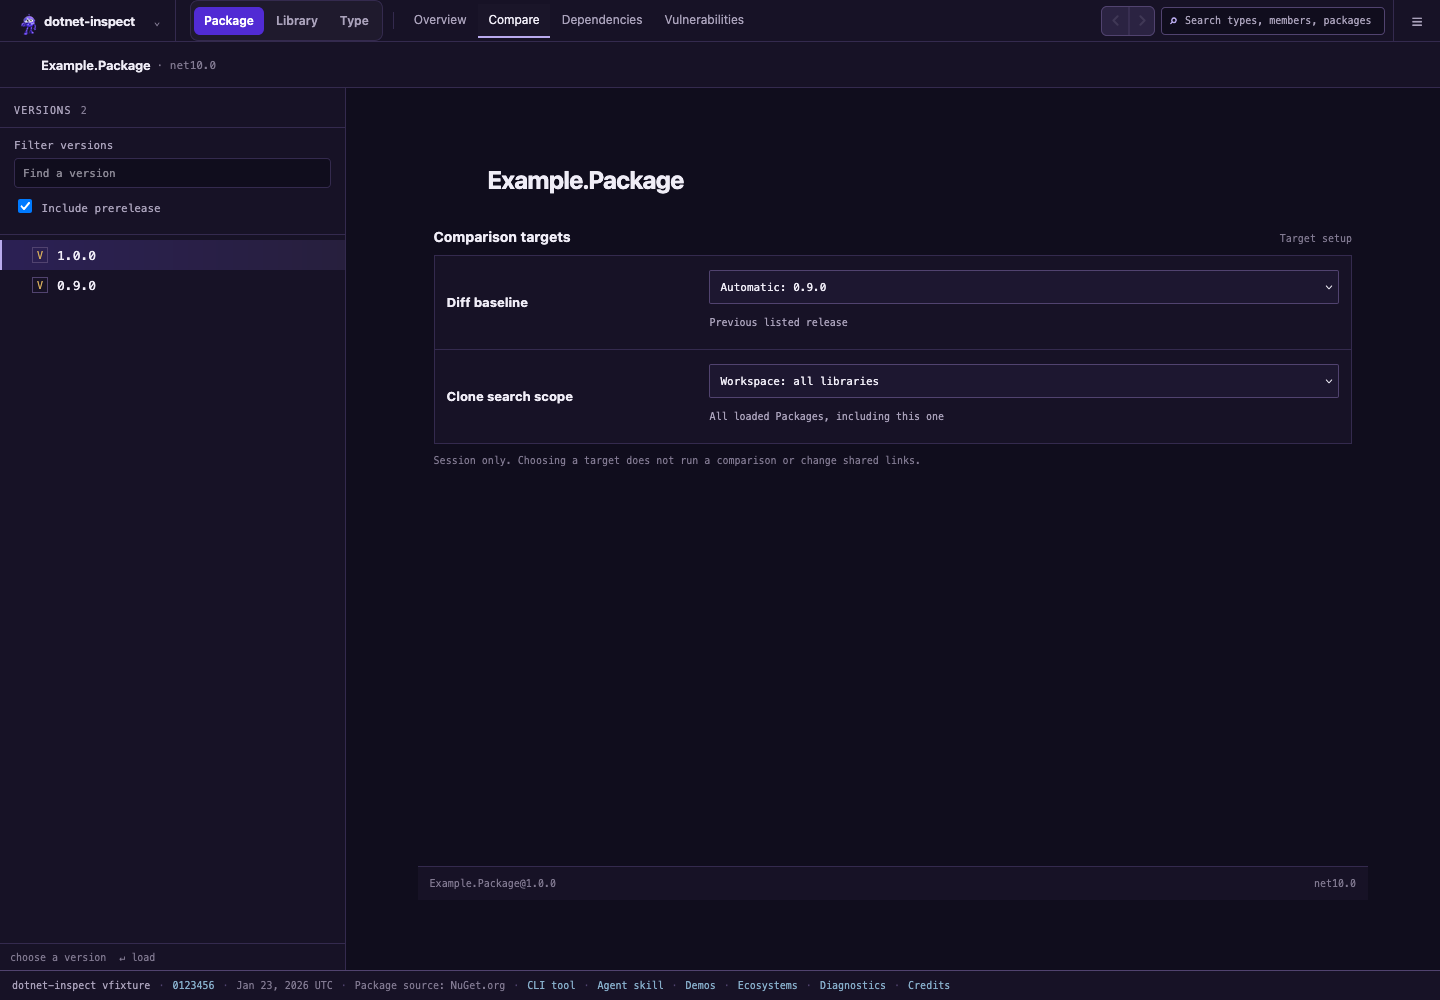
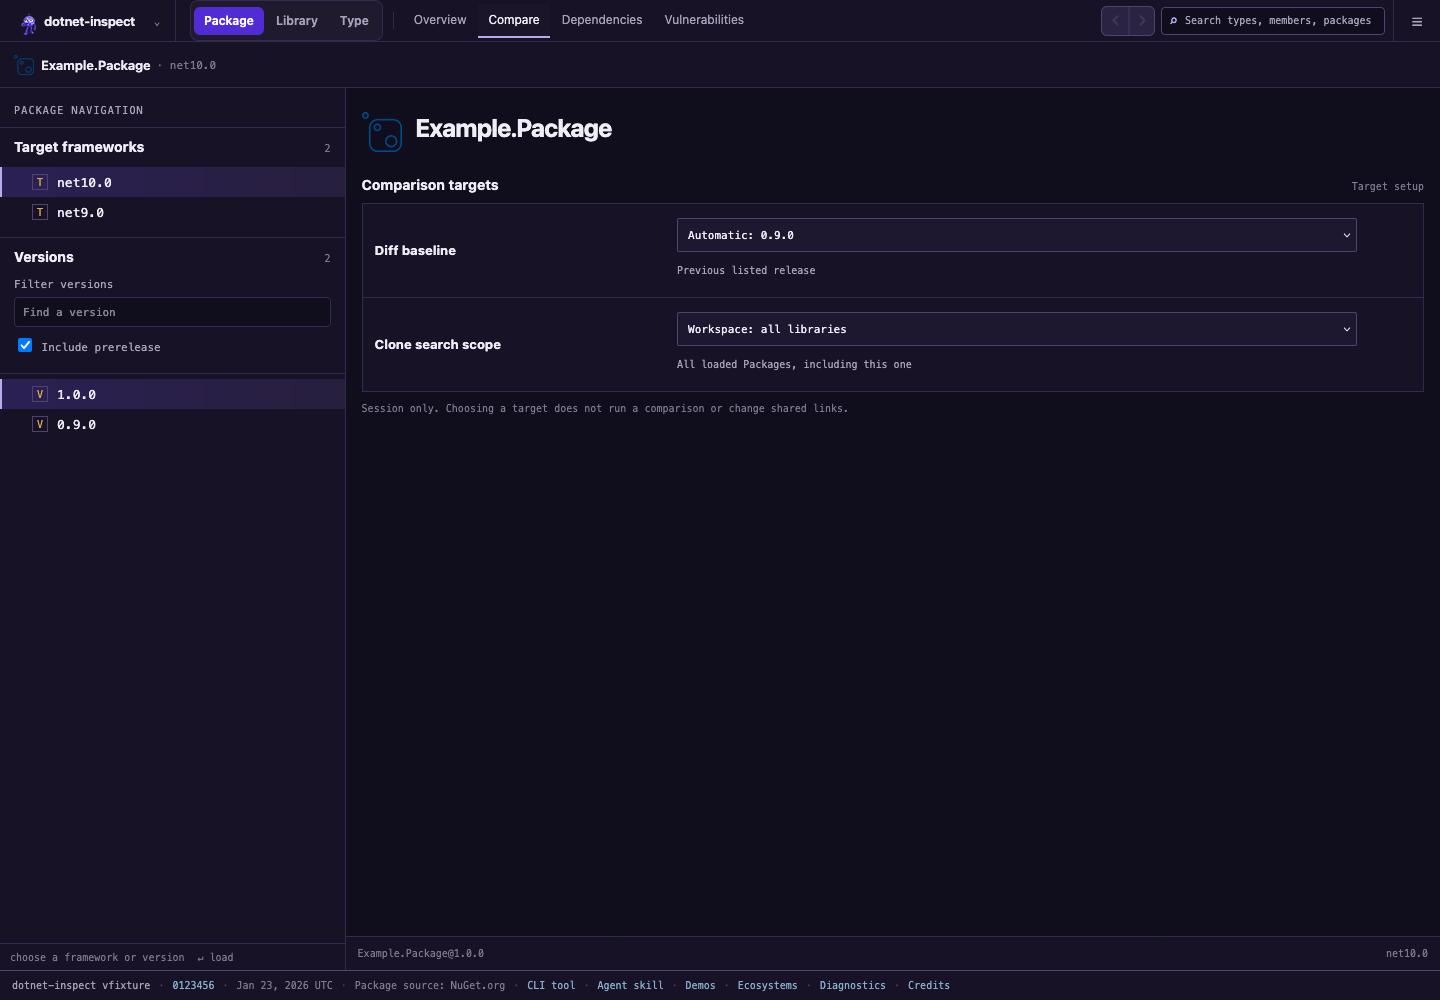
Refresh package screenshots and navigation harness

diff --git a/inspect-web/browser/workspace-titlebar-harness.ts b/inspect-web/browser/workspace-titlebar-harness.ts
@@ -1,3 +1,4 @@
+import { bindPackageSelections } from "../src/package-controls.ts";
 import {
   bindScopeBar,
   captureScopeBarFocus,
@@ -55,7 +56,7 @@ import {
   renderOverviewSurface,
   renderPackageOverviewContent,
 } from "../src/overview-surface.ts";
-import { renderPackageNav, renderPackageFrameworks } from "../src/package-view.ts";
+import { renderPackageNav } from "../src/package-view.ts";
 import { renderLibrarySubjectNav } from "../src/library-subject-nav.ts";
 import { renderPackageDocuments } from "../src/doc-viewer.ts";
 import { allocationFactsFixture, analysisDiagnosticsFixture, callFactsFixture, exceptionRegionsFixture, memberFactsFixture, performanceOpportunitiesFixture, safetyFactsFixture } from "../test/member-facts-fixture.ts";
@@ -795,8 +796,7 @@ function detailHtml() {
       <footer class="api-surface-footer"><span>Select a row to inspect its API</span></footer>
     </section>`;
   }
-  return `<h1>${subjectPath.at(-1)?.label}</h1>
-    ${renderPackageFrameworks(["net10.0"], "net10.0", escapeHtml)}`;
+  return `<h1>${subjectPath.at(-1)?.label}</h1>`;
 }
 const harnessKeybindings = new KeybindingRegistry();
 harnessKeybindings.register({
@@ -1268,6 +1268,7 @@ function bindHarnessWorkspace() {
 
 bindHarnessScopeBar();
 bindHarnessWorkspace();
+bindPackageSelections(document, { onFrameworkSelect: () => {}, onVersionSelect: () => {} });
 bindContentFrame(document, {
   onShowDetail: () => {
     contentFramePane = "detail";

diff --git a/inspect-web/src/package-view.ts b/inspect-web/src/package-view.ts
@@ -64,7 +64,7 @@ export function renderPackageNav(options: PackageNavOptions): string {
     <div id="package-version-list" class="type-list" role="group" aria-label="Package version navigation" tabindex="-1" data-nav-scope="versions" data-nav-selection="version:${escapeHtml(activeVersion)}">
       ${versions.map(version => `<button type="button" class="type-row ${version.toLowerCase() === activeVersion.toLowerCase() ? "selected" : ""}" data-package-version="${escapeHtml(version)}"${version.toLowerCase() === activeVersion.toLowerCase() ? ' aria-current="page"' : ""} title="Use ${escapeHtml(version)}"><span class="kind-icon">V</span><span class="type-name">${escapeHtml(version)}</span></button>`).join("")}
     </div>
-    <footer class="pane-footer"><span>choose a version</span><span>↵ load</span></footer>
+    <footer class="pane-footer"><span>choose a framework or version</span><span>↵ load</span></footer>
   </aside>`;
 }
 

diff --git a/inspect-web/browser/workspace-titlebar.spec.ts b/inspect-web/browser/workspace-titlebar.spec.ts
@@ -715,7 +715,7 @@ for (const [subject, width] of [
           .toBeLessThanOrEqual(header.y + header.height);
       }
       await page.getByRole("button", { name: subject === "package" ? "Frameworks & versions" : "Libraries", exact: true }).click();
-      await expect(page.locator(subject === "package" ? "#package-version-list" : ".type-list")).toBeFocused();
+      await expect(page.locator(subject === "package" ? '[data-package-framework][aria-current="page"]' : ".type-list")).toBeFocused();
       await expect(page.locator(".detail-pane")).toBeHidden();
     }
   });
